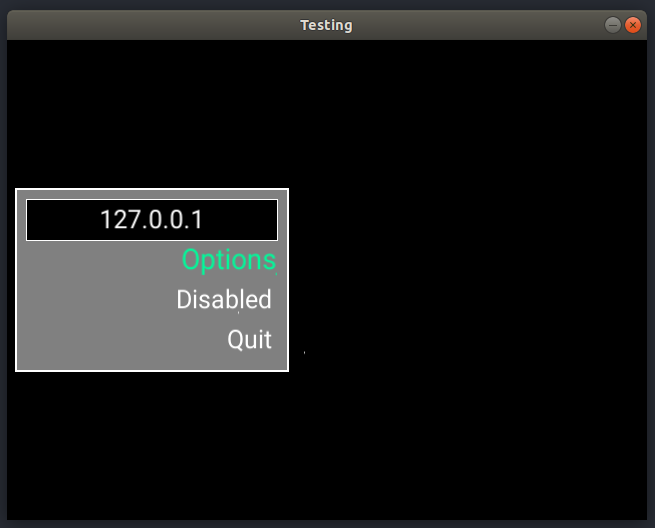
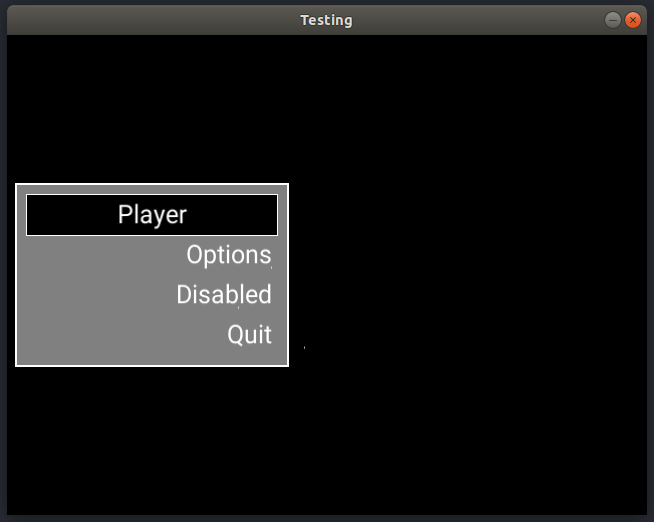
Enable travis-ci

Changed region(s): [[0.0, 0.0, 1.0, 0.092], [0.0306, 0.3372, 0.4587, 0.5824], [0.0306, 0.613, 0.4587, 0.705]]

diff --git a/example/menu.go b/example/menu.go
@@ -30,7 +30,7 @@ func MenuInit(window *glfw.Window, font *glText.Font) {
 		fmt.Println("error loading the font")
 		os.Exit(1)
 	}
-	textbox := mainMenu.NewTextBox("127.0.0.1", 250, 40, 1)
+	textbox := mainMenu.NewTextBox("Player", 250, 40, 1)
 	textbox.Text.MaxRuneCount = 16
 	mainMenu.NewLabel("Options", glMenu.LabelConfig{Action: glMenu.GOTO_MENU, Goto: "option"})
 	mainMenu.NewLabel("Disabled", glMenu.LabelConfig{Action: glMenu.NOOP})
